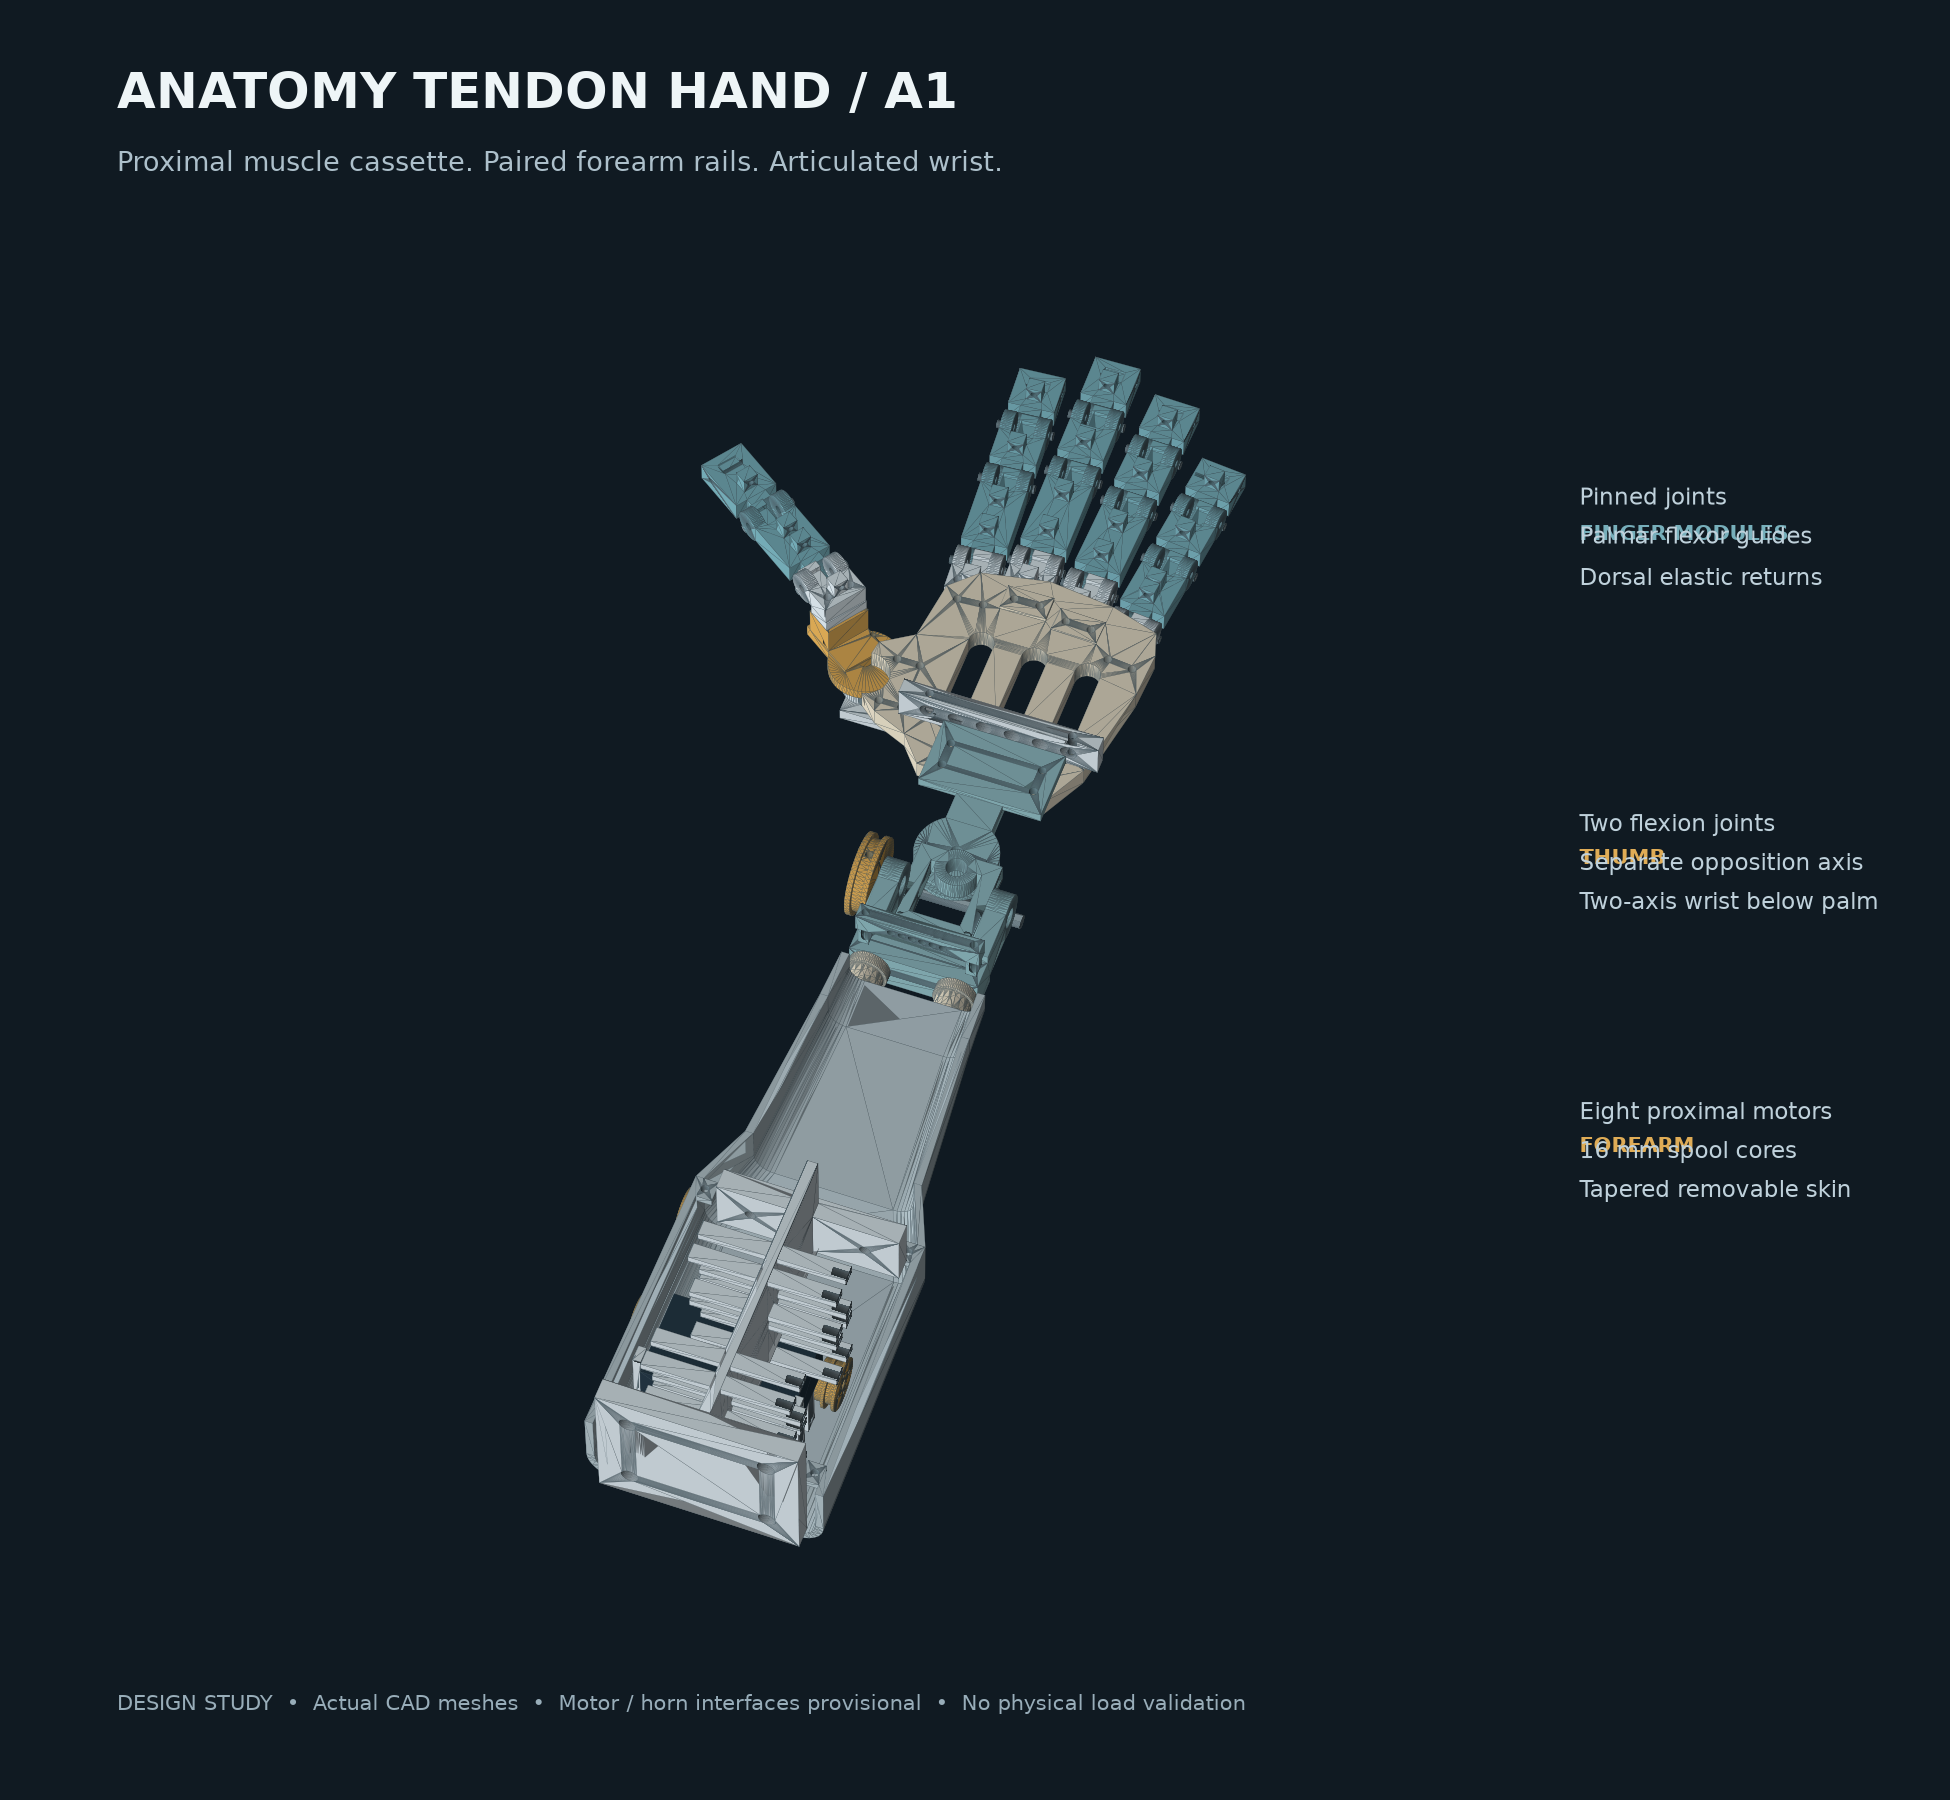
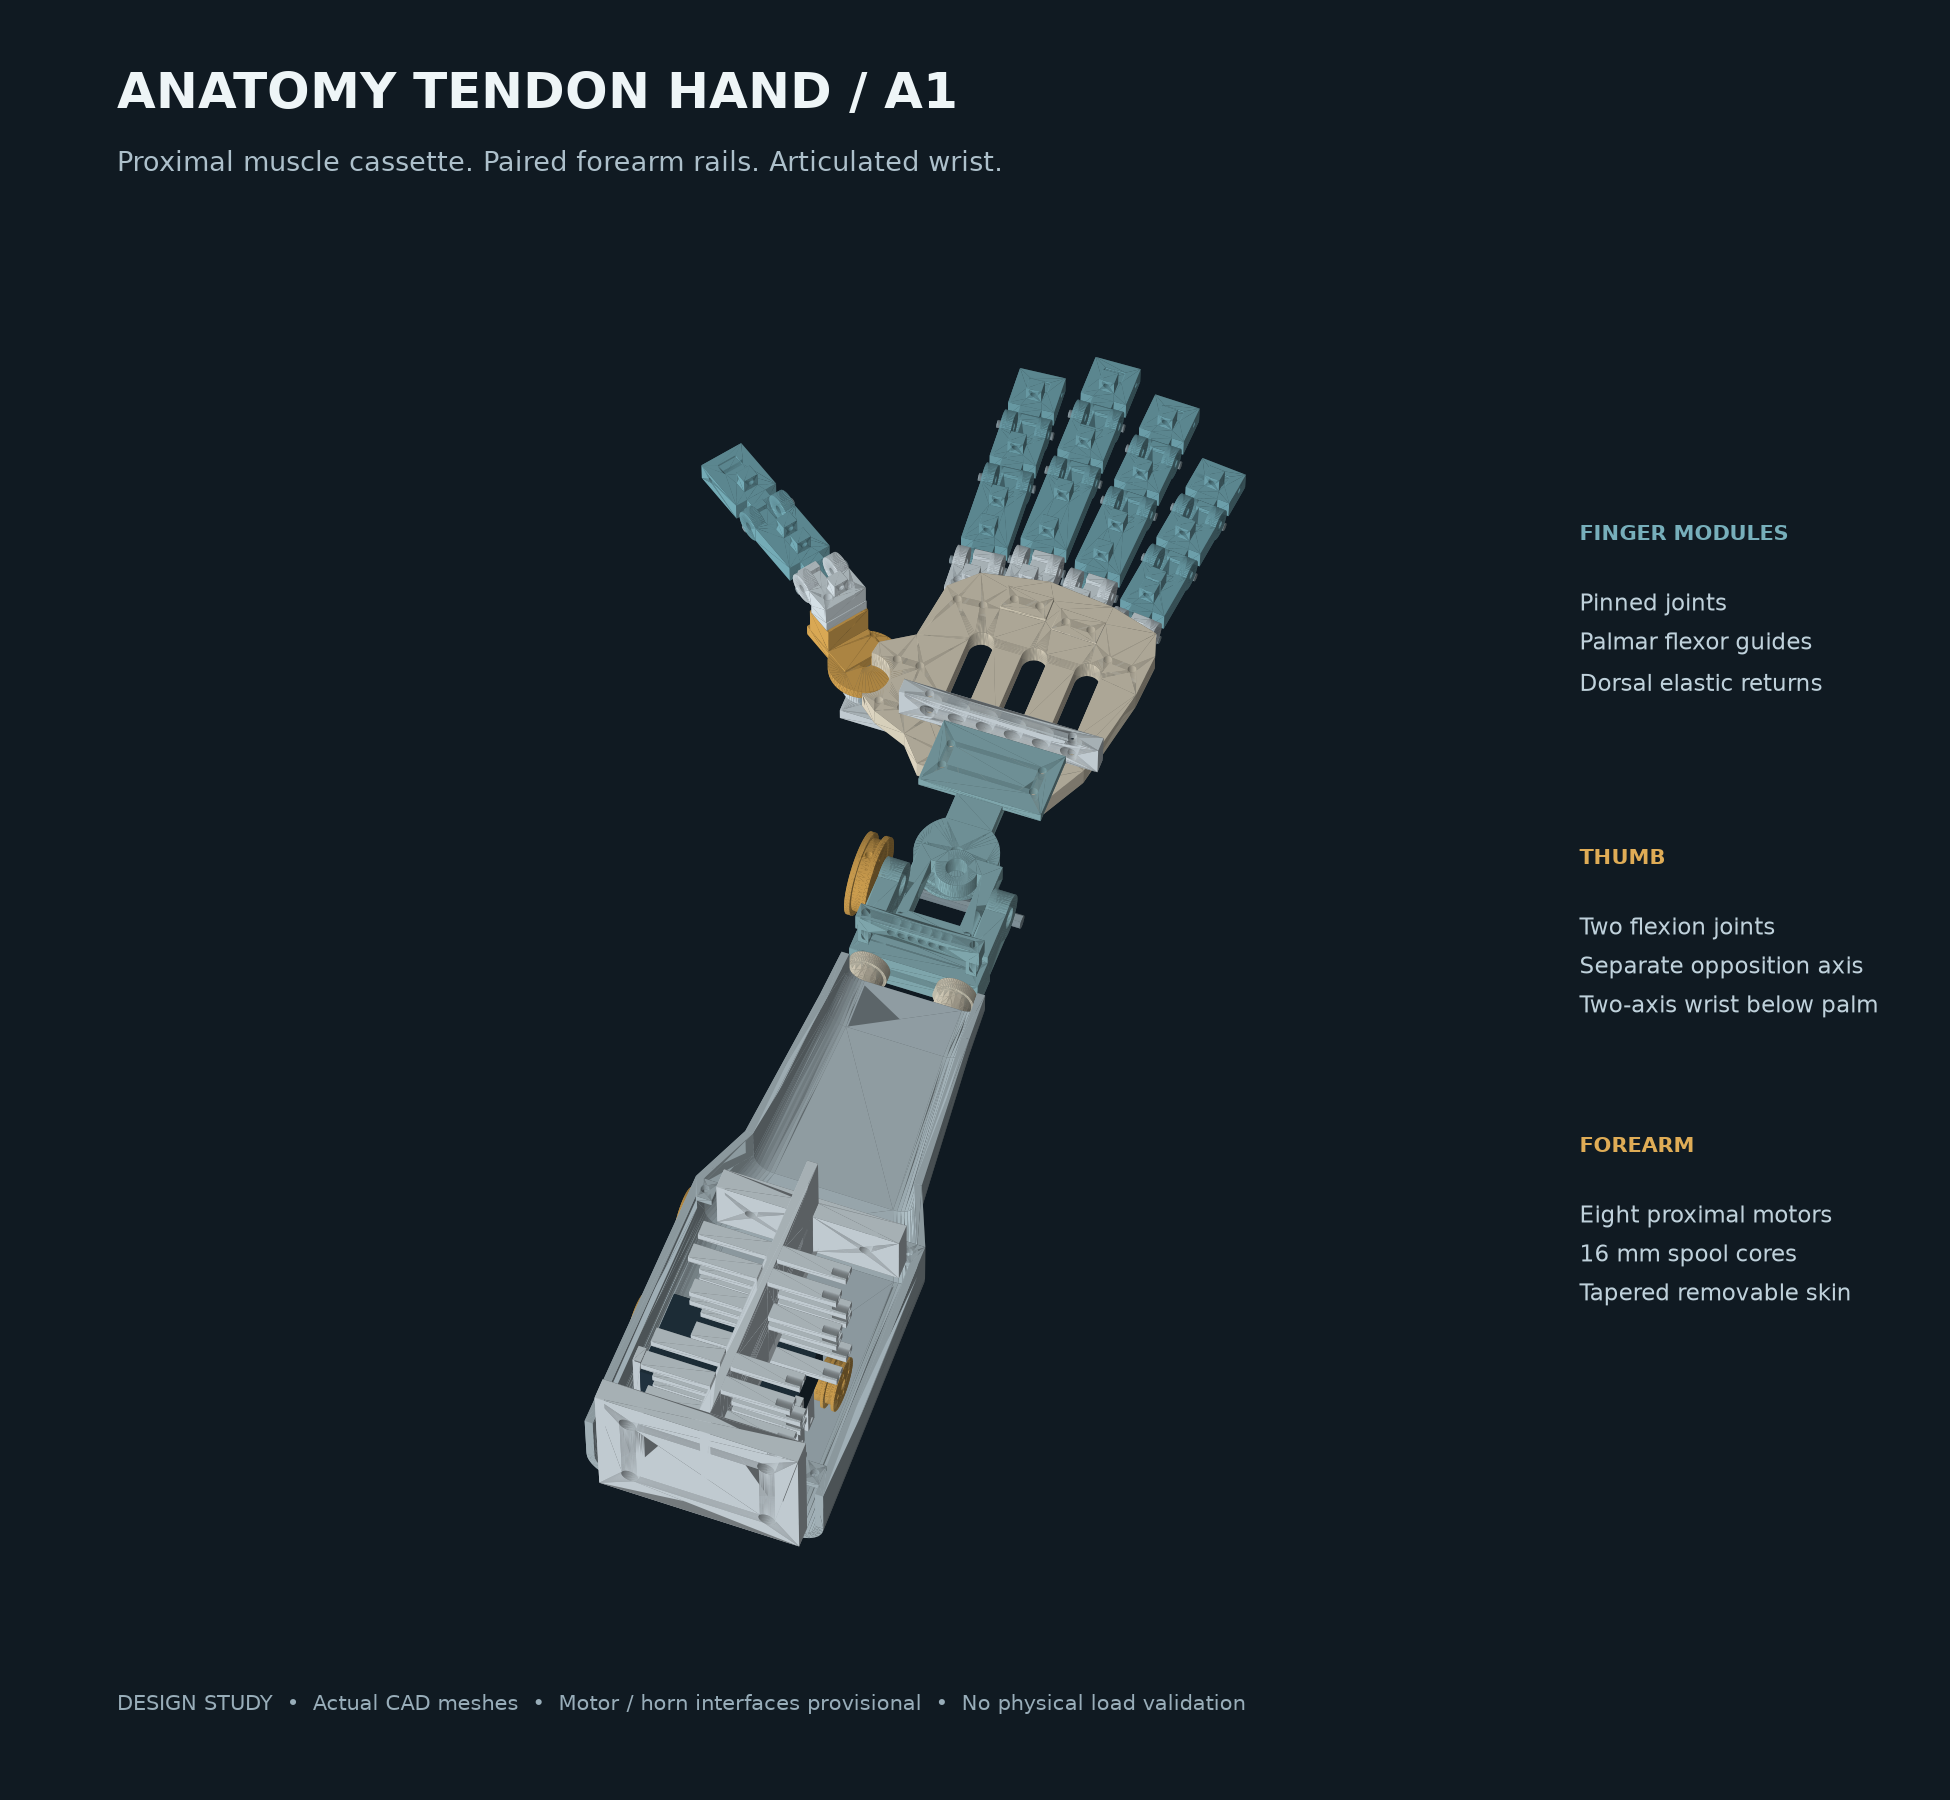
Improve CAD preview rendering and annotation layout

diff --git a/scripts/render_model.py b/scripts/render_model.py
@@ -10,12 +10,12 @@ fig=plt.figure(figsize=(13,12),facecolor='#101a22');ax=fig.add_axes([.04,.08,.80
 for inst in D['instances']:
     if not inst['visible']:continue
     mesh=D['meshes'][inst['key']];v=np.array(mesh['vertices']).reshape(-1,3);f=np.array(mesh['faces']).reshape(-1,3);m=np.array(inst['matrix']);v=v@m[:3,:3].T+m[:3,3]
-    c=Poly3DCollection(v[f],facecolors=D['colors'][inst['kind']],edgecolors='#53666f',linewidth=.08,alpha=1,shade=True);ax.add_collection3d(c)
+    c=Poly3DCollection(v[f],facecolors=D['colors'][inst['kind']],linewidth=0,alpha=1,shade=True);ax.add_collection3d(c)
 ax.set_xlim(-145,100);ax.set_ylim(-265,245);ax.set_zlim(-45,100);ax.set_box_aspect([245,510,145]);ax.view_init(elev=56,azim=-70);ax.set_axis_off()
 fig.text(.06,.94,'ANATOMY TENDON HAND / '+D['parameters']['revision'],color='#eef5f7',fontsize=24,weight='bold');fig.text(.06,.905,'Proximal muscle cassette. Paired forearm rails. Articulated wrist.',color='#adc0cb',fontsize=13)
-fig.text(.81,.70,'FINGER MODULES',color='#77afbb',fontsize=10,weight='bold');fig.text(.81,.675,'Pinned joints\nPalmar flexor guides\nDorsal elastic returns',color='#bfd1db',fontsize=11,linespacing=1.7)
-fig.text(.81,.52,'THUMB',color='#dfac56',fontsize=10,weight='bold');fig.text(.81,.495,'Two flexion joints\nSeparate opposition axis\nTwo-axis wrist below palm',color='#bfd1db',fontsize=11,linespacing=1.7)
-fig.text(.81,.36,'FOREARM',color='#dfac56',fontsize=10,weight='bold');fig.text(.81,.335,'Eight proximal motors\n16 mm spool cores\nTapered removable skin',color='#bfd1db',fontsize=11,linespacing=1.7)
+fig.text(.81,.70,'FINGER MODULES',color='#77afbb',fontsize=10,weight='bold');fig.text(.81,.675,'Pinned joints\nPalmar flexor guides\nDorsal elastic returns',color='#bfd1db',fontsize=11,linespacing=1.7,va='top')
+fig.text(.81,.52,'THUMB',color='#dfac56',fontsize=10,weight='bold');fig.text(.81,.495,'Two flexion joints\nSeparate opposition axis\nTwo-axis wrist below palm',color='#bfd1db',fontsize=11,linespacing=1.7,va='top')
+fig.text(.81,.36,'FOREARM',color='#dfac56',fontsize=10,weight='bold');fig.text(.81,.335,'Eight proximal motors\n16 mm spool cores\nTapered removable skin',color='#bfd1db',fontsize=11,linespacing=1.7,va='top')
 fig.text(.06,.05,'DESIGN STUDY  •  Actual CAD meshes  •  Motor / horn interfaces provisional  •  No physical load validation',color='#98adb9',fontsize=10)
 dest=R/'output/A1/assembly/anatomy_preview.png' if D['parameters']['revision']=='A1' else R/'output/renders/assembly.png'
 fig.savefig(dest,dpi=150,facecolor=fig.get_facecolor());plt.close(fig)
